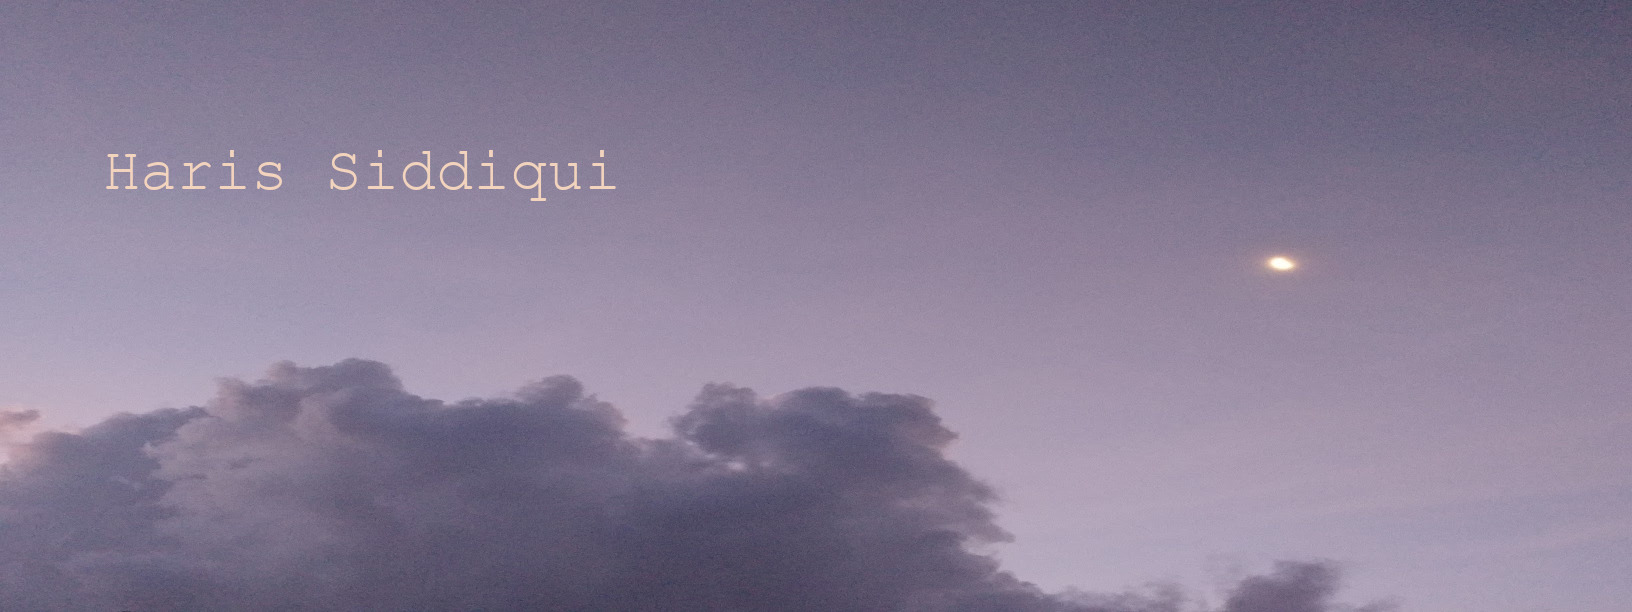
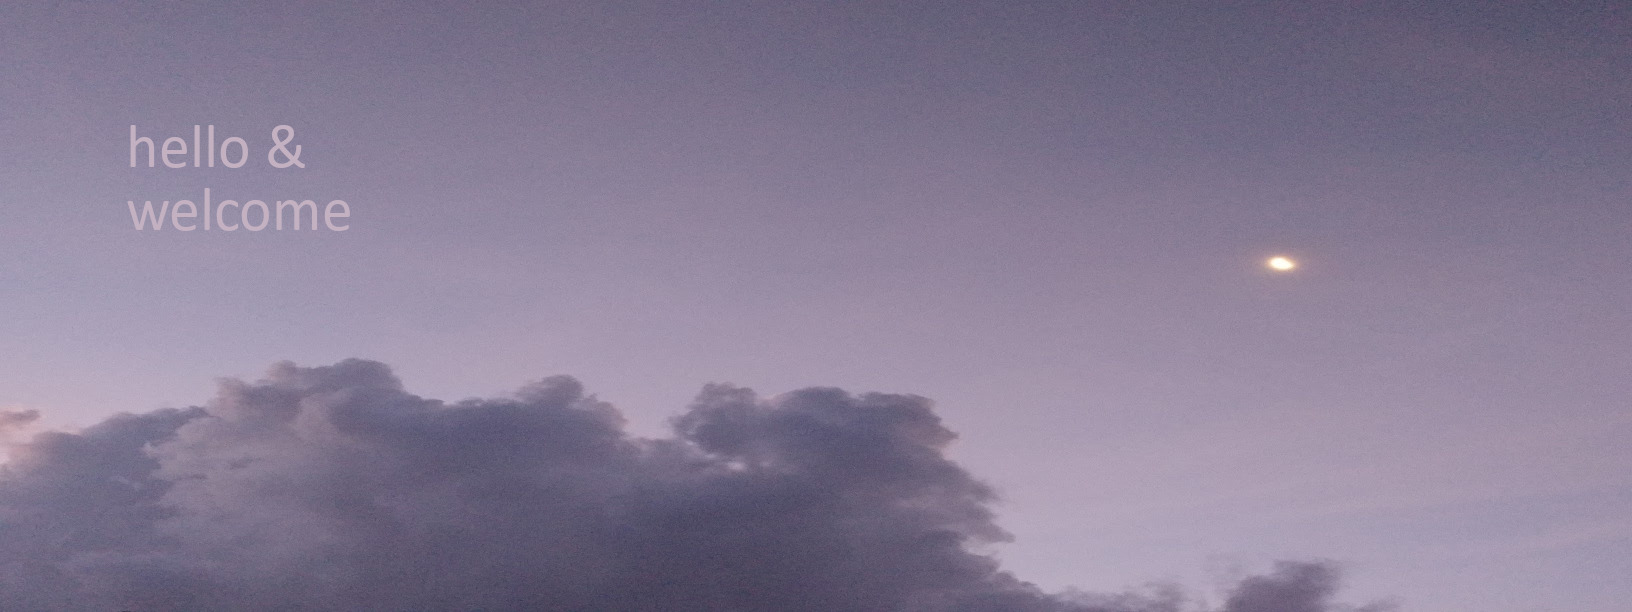
datacity.html and font changes

Changed region(s): [[0.0625, 0.1863, 0.375, 0.3725]]

diff --git a/index.html b/index.html
@@ -26,7 +26,7 @@
             <li class="nav-item">
               <a class="nav-link" href="#projects">Projects</a>
             </li>
-        
+        +65
             <!-- <li><a href="experience.html">Experience</a></li> -->
             <!-- <li><a href="blog">Blog</a></li> -->
           </ul>
@@ -41,12 +41,10 @@
     <div class="top">
       <img id="hs" class="rounded d-block img-fluid mx-auto" src="images/sky.jpg" alt="night sky">
     
-      <!--<p class="font">What started off as an interest in <a href = "https://www.lopp.net/bitcoin-information.html" target="_blank" rel="noopener noreferrer">Bitcoin</a> has resulted in a multi-year journey.
-      </p>
-      -->
-  </div>
+    </div>
+
     <div class="middle">
-         <img id="education" class="rounded d-block img-fluid mx-auto" src="images/education.png" alt="school building">
+         <img id="education" class="rounded d-block img-fluid mx-auto" src="images/education.jpg" alt="school building">
          <p class="font" style="padding-top: 50px;">University of Houston-Downtown: Houston, TX<br>
           Bachelor of Science in Computer Science<br>
           Anticipated graduation: December 2022
@@ -58,7 +56,7 @@
       
 
 
-         <img id="projects" class="rounded d-block img-fluid mx-auto" style="margin-bottom: 50px;" src="images/projects.png" alt="seattle skyline">
+         <img id="projects" class="rounded d-block img-fluid mx-auto" style="margin-bottom: 50px;" src="images/projects.jpg" alt="seattle skyline">
 
          <!-- Button trigger modal -->
           <button type="button" class="btn btn-dark" style="margin-right: 5px" data-bs-toggle="modal" data-bs-target="#dataCity">
@@ -70,7 +68,7 @@
     <div class="modal-dialog modal-dialog-centered">
       <div class="modal-content">
         <div class="modal-header">
-          <h5 class="modal-title" id="staticBackdropLabel">DataCity</h5>
+          <a href="datacity.html" class="modal-title" id="staticBackdropLabel">DataCity</a>
         </div>
         <div class="modal-body">
         <p>A database application created using Microsoft SQL Server. Designed for a centralized platform that allows candidates to apply to posted jobs, track the progress of the application, and leave reviews for interviews. Employers are able post jobs, select candidates for interviews, track the progress of interviews, hire candidates, and communicate with candidates.</p>

diff --git a/datacity.html b/datacity.html
@@ -1,0 +1,37 @@
+<!doctype html>
+<html lang="en">
+ 
+
+  <head>
+
+      <!-- Bootstrap CSS -->
+     <link href="https://cdn.jsdelivr.net/npm/bootstrap@5.1.3/dist/css/bootstrap.min.css" rel="stylesheet" integrity="sha384-1BmE4kWBq78iYhFldvKuhfTAU6auU8tT94WrHftjDbrCEXSU1oBoqyl2QvZ6jIW3" crossorigin="anonymous">
+
+     <!-- My CSS -->
+    <link rel="stylesheet" href="style.css">
+
+    <meta charset = "utf-8">
+    <meta name="viewport" content="width=device-width, initial-scale=1">
+
+    <nav class="navbar sticky-top navbar-expand navbar-dark bg-dark">
+      <div class="container-fluid">
+        <a class="navbar-brand nav-link active" aria-current="page" href="index.html">HS</a>
+      </div>
+    </nav>
+
+    <title>DataCity</title>
+  </head>
+
+  <body>
+    <div class="top">
+      <img id="hs" class="rounded d-block img-fluid mx-auto" src="images/datacity.jpg" alt="downtown from uhd">
+    
+    </div>
+
+  
+
+  <script src="https://cdn.jsdelivr.net/npm/bootstrap@5.1.3/dist/js/bootstrap.bundle.min.js" integrity="sha384-ka7Sk0Gln4gmtz2MlQnikT1wXgYsOg+OMhuP+IlRH9sENBO0LRn5q+8nbTov4+1p" crossorigin="anonymous"></script>
+
+</body>
+
+</html>
